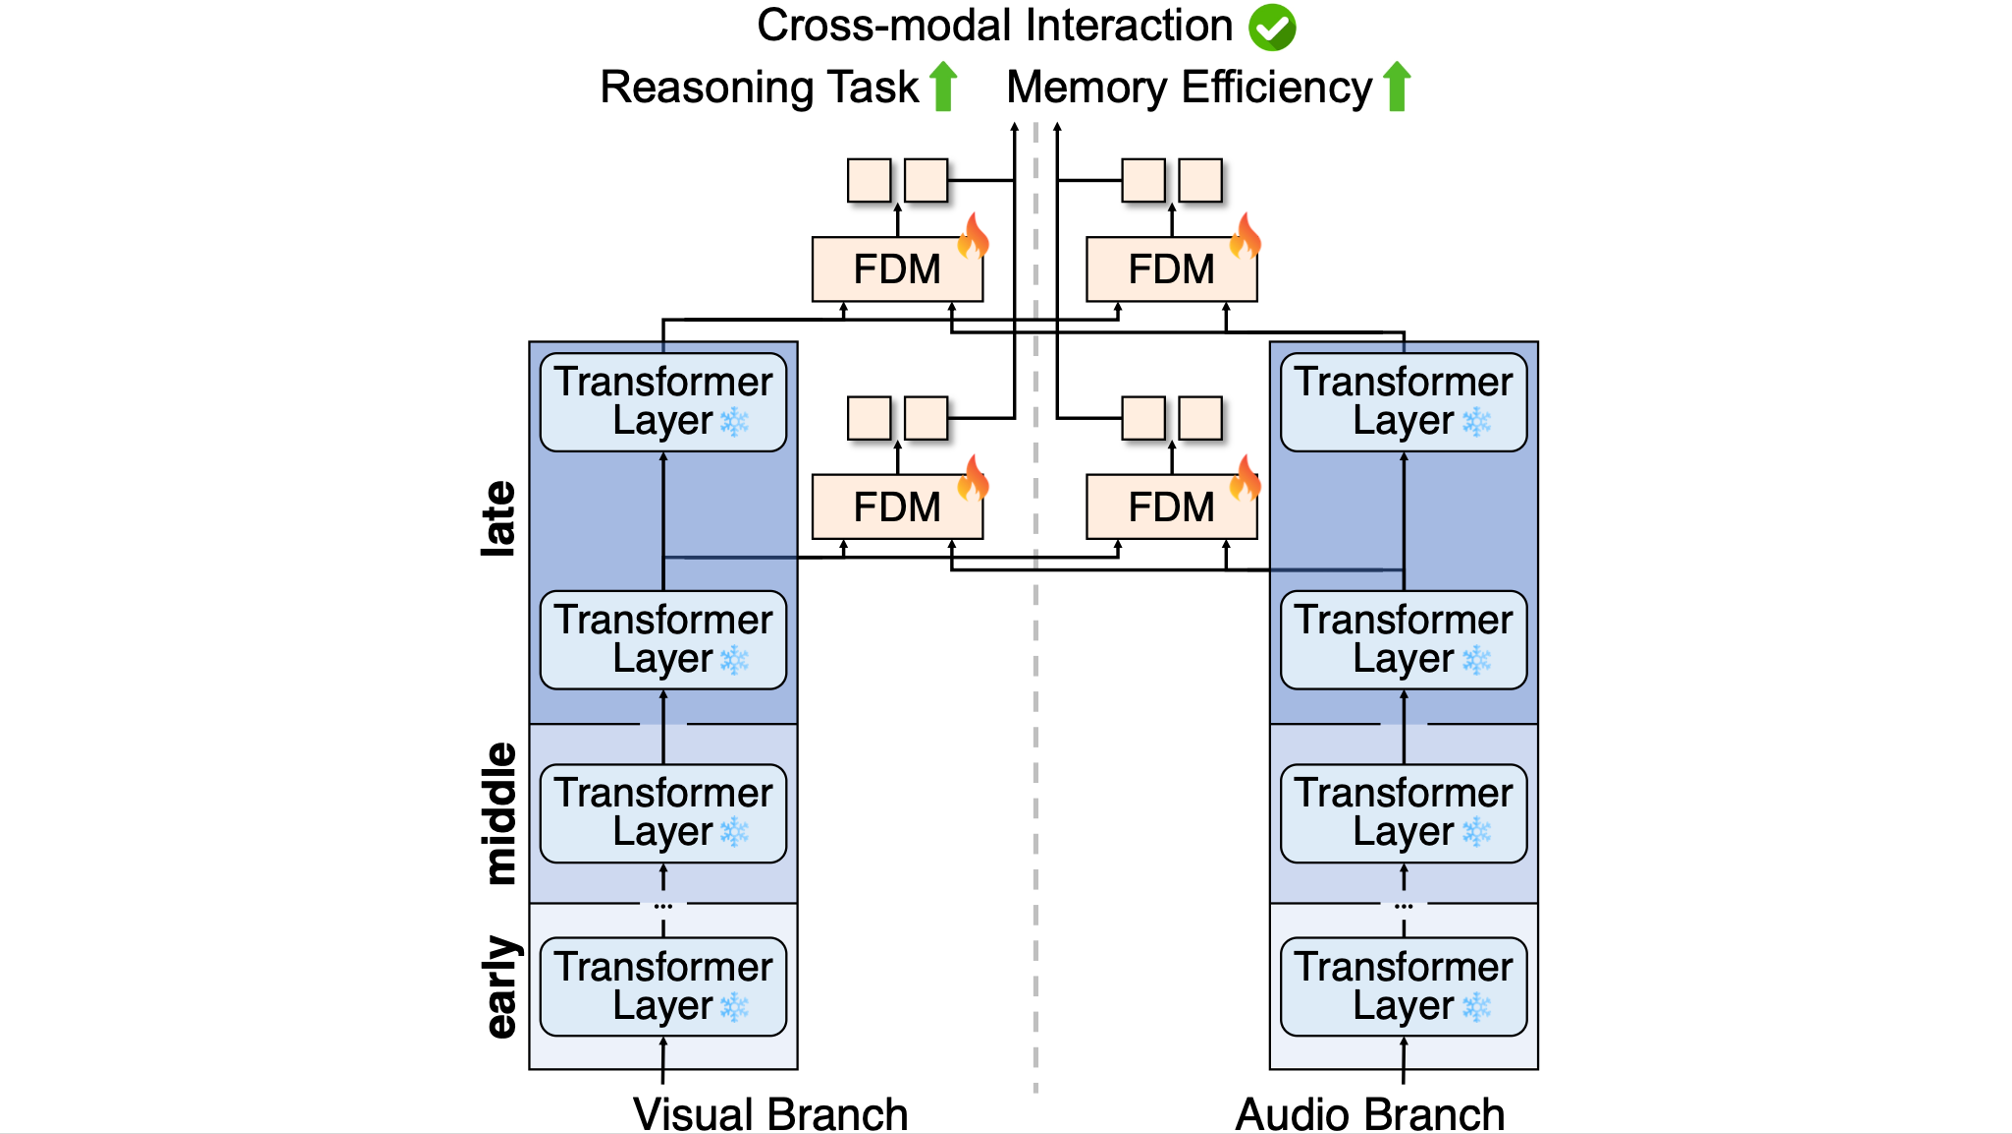
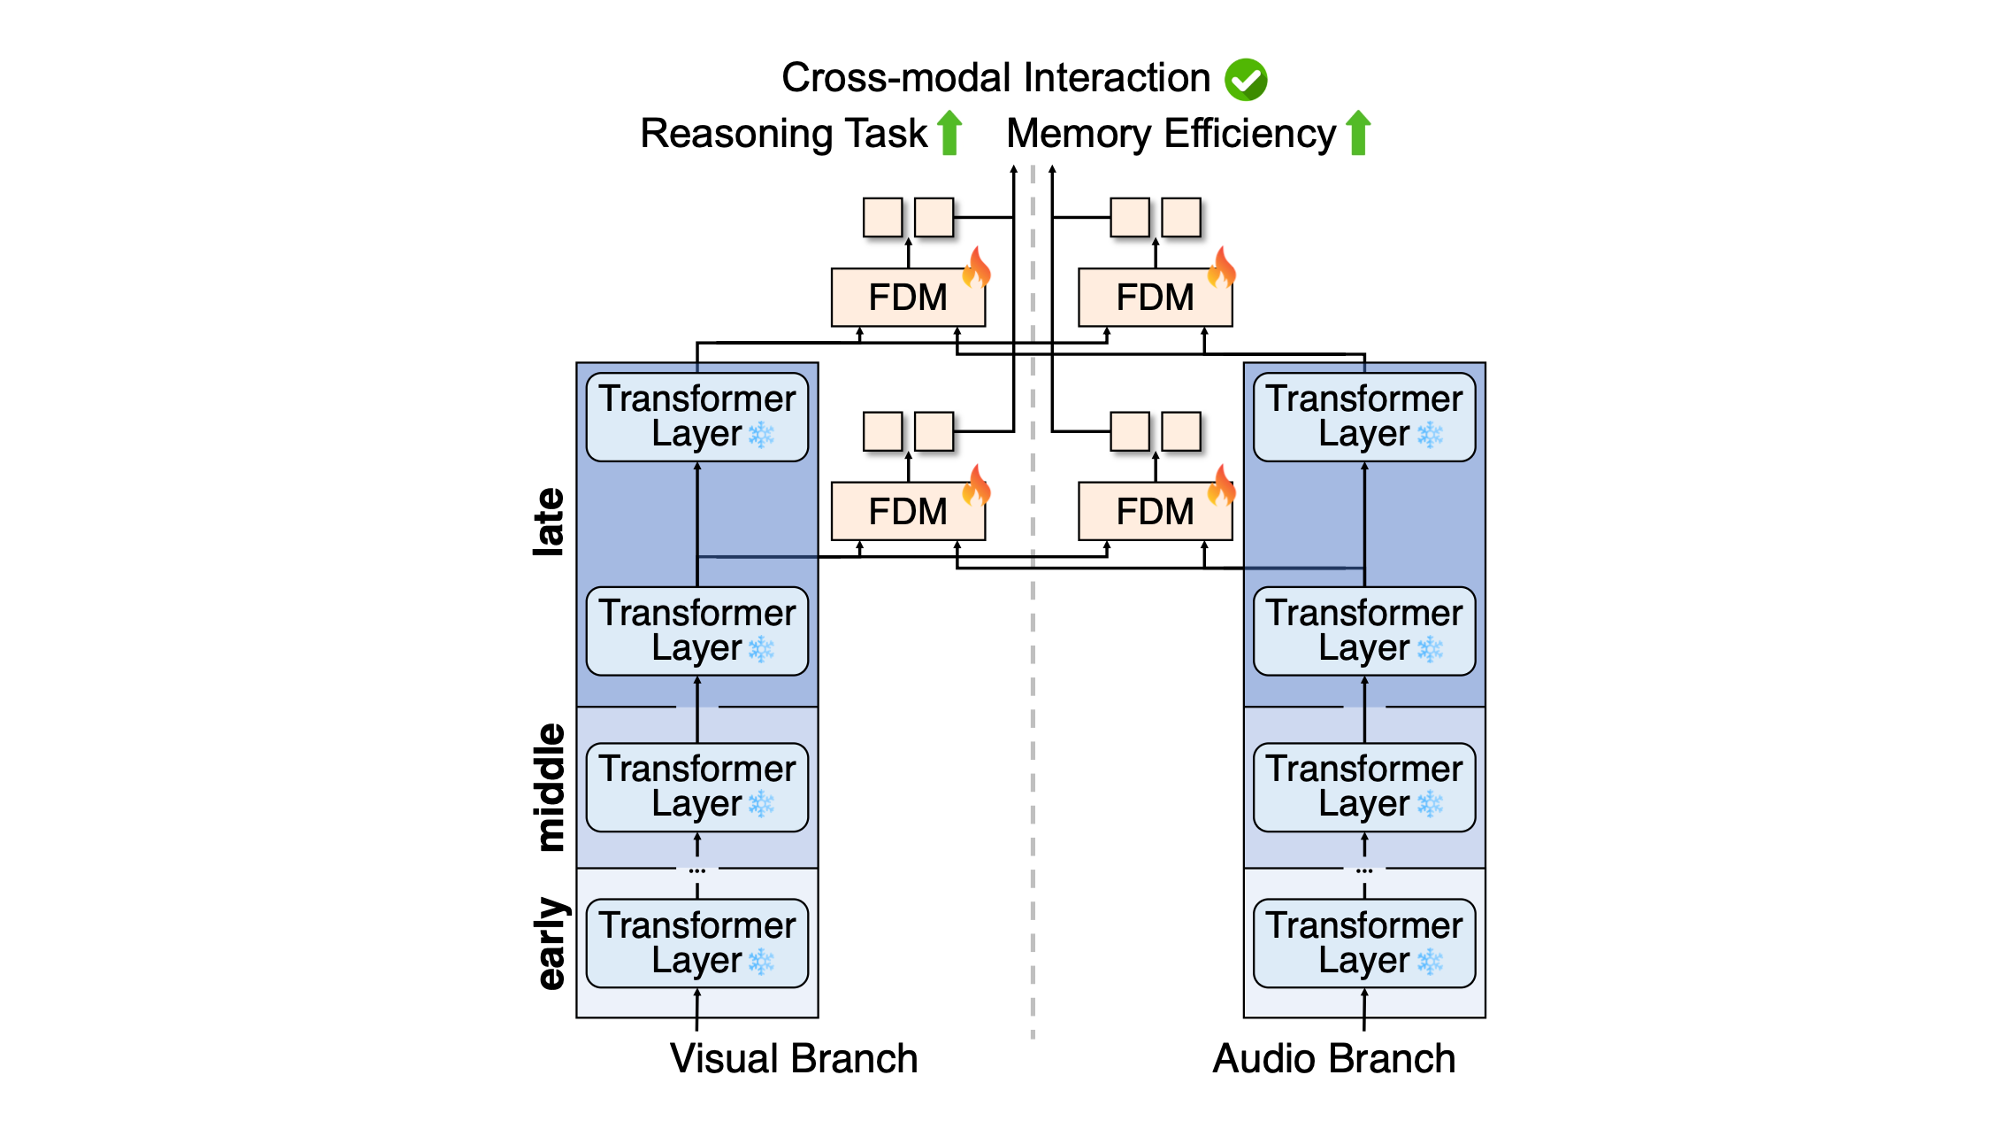
edit thumbnail image for MoLT_re2 and change dash line of thumbnails to solid line

Changed region(s): [[0.2157, 0.0, 0.7704, 1.0]]

diff --git a/assets/css/style.css b/assets/css/style.css
@@ -147,7 +147,7 @@ body.dark-mode * {
     width: 100%;
     padding-top: 56.25%; /* 16:9 비율 유지 */
     background-color: transparent;
-    border: 2px dashed #ccc;
+  border: 2px solid #ccc;
     border-radius: 0.5rem;
     position: relative;
 }
@@ -156,7 +156,7 @@ body.dark-mode * {
     width: 100%;          /* 부모 div 너비 100% */
     max-width: 320px;     /* 최대 너비 제한 */
     aspect-ratio: 16 / 9; /* 16:9 비율 유지 */
-    border: 2px dashed #ccc;
+  border: 2px solid #ccc;
     border-radius: 0.5rem;
     overflow: hidden;     /* 이미지가 넘치면 숨김 */
 }
